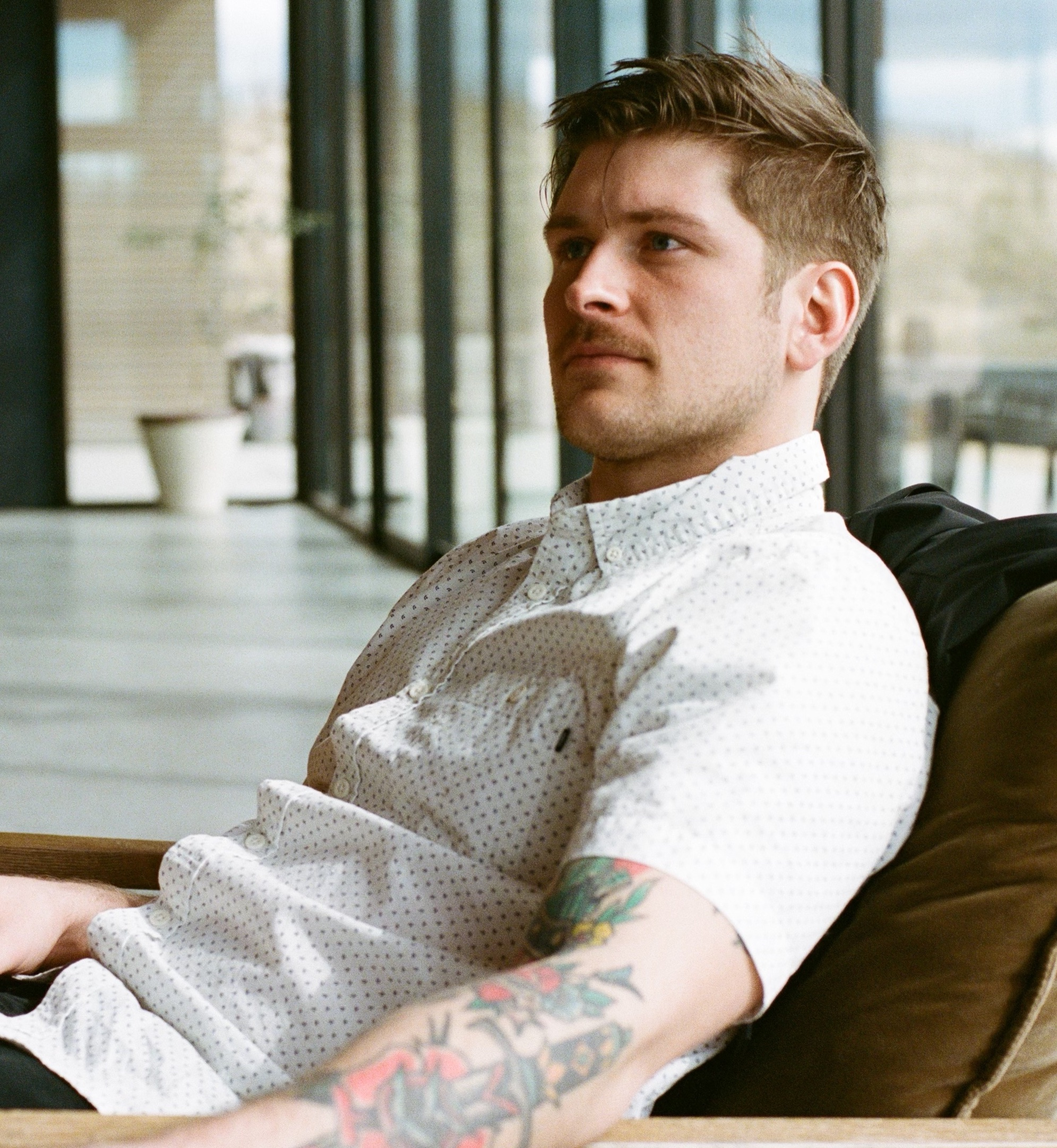
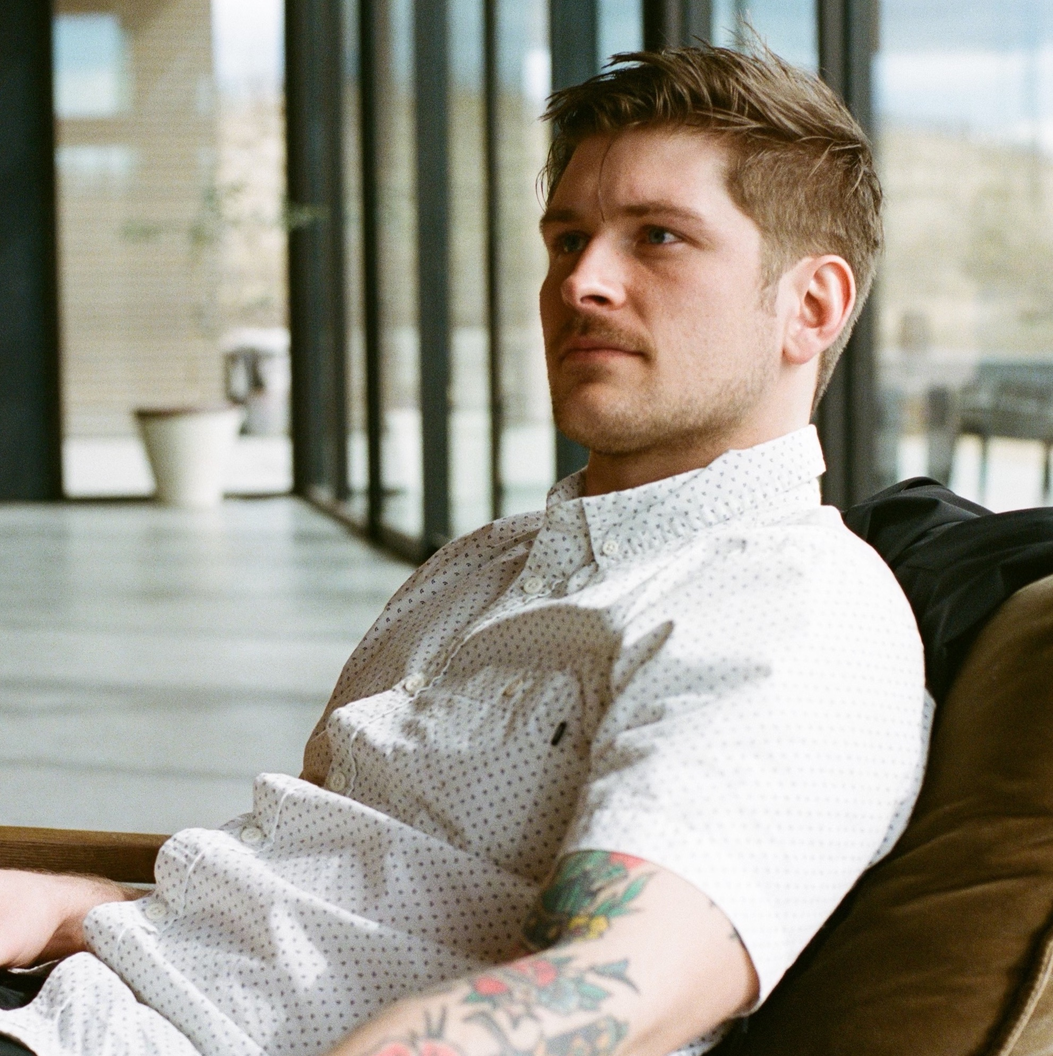
Fixed the pictures on the About Page

diff --git a/real_estate/src/pages/About.js b/real_estate/src/pages/About.js
@@ -22,14 +22,14 @@ function About() {
 
                 <div className="column">
                         <figure className="image">
-                        <img className="is-rounded" id="casonPic" src={Cason} alt="Cason" />
+                        <img className="is-rounded"  src={Cason} alt="Cason" />
                         </figure>
                         <div className="subtitle has-text-centered">Cason Nichols</div>
                 </div>
 
                 <div className="column">
                         <figure className="image">
-                        <img className="is-rounded" src={Hannah} alt="Hannah" />
+                        <img className="is-rounded"  src={Hannah} alt="Hannah" />
                         <div className="subtitle has-text-centered">Hannah Kosmicki</div>
                         </figure>
                 </div>

diff --git a/real_estate/src/styles/About.css b/real_estate/src/styles/About.css
@@ -1,3 +1,3 @@
-#casonPic{
+/* #casonPic{
     max-height: 50%;
-}
+} */
